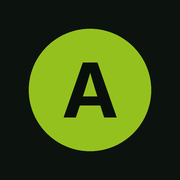
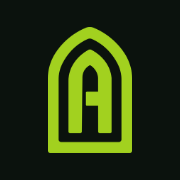
Иконка CRM — настоящий логотип Amana Finance
Логотип из репозитория калькулятора (images/logo.png) на тёмном фоне CRM:
иконка экрана «Домой» iPhone (180 px) и значок вкладки (32 px), ?v=2 — чтобы браузеры не показывали старую.

Claude-Session: https://claude.ai/code/session_018EWvf4BxyNs4iF1zWq9g5X

Changed region(s): [[0.1389, 0.1667, 0.8611, 0.8611], [0.4444, 0.1389, 0.5556, 0.1667]]

diff --git a/index.html b/index.html
@@ -6,8 +6,8 @@
 <meta name="viewport" content="width=device-width,initial-scale=1.0,viewport-fit=cover"/>
 <meta http-equiv="Cache-Control" content="no-cache, no-store, must-revalidate"/>
 <title>Amana CRM</title>
-<link rel="apple-touch-icon" href="icon-180.png"/>
-<link rel="icon" type="image/png" href="icon-32.png"/>
+<link rel="apple-touch-icon" href="icon-180.png?v=2"/>
+<link rel="icon" type="image/png" href="icon-32.png?v=2"/>
 <meta name="apple-mobile-web-app-title" content="Amana CRM"/>
 <meta name="theme-color" content="#060a07"/>
 <link href="https://fonts.googleapis.com/css2?family=Manrope:wght@400;500;600;700&family=Roboto+Condensed:wght@500;600;700&display=swap" rel="stylesheet"/>
@@ -1473,7 +1473,7 @@ function askText(t,label,val,ok){const l=document.getElementById('confirmLayer')
   document.getElementById('askOk').onclick=go;i.onkeydown=e=>{if(e.key==='Enter')go();};setTimeout(()=>{i.focus();i.select();},30);}
 function showConfirm(t,m,ok){const l=document.getElementById('confirmLayer');l.innerHTML='<div class="confirm-ov" onclick="if(event.target===this)this.remove()"><div class="confirm-box"><div class="confirm-title">'+t+'</div><div class="confirm-msg">'+m+'</div><div class="confirm-actions"><button class="btn bgh" onclick="this.closest(\'.confirm-ov\').remove()">Отмена</button><button class="btn bg" id="cfOk">Подтвердить</button></div></div></div>';document.getElementById('cfOk').onclick=()=>{l.innerHTML='';ok();};}
 
-const CRM_VERSION='05.11.2026 · 5';
+const CRM_VERSION='05.11.2026 · 6';
 // ---------- AUTH ----------
 let _inited=false;
 document.getElementById('lpass').addEventListener('keydown',e=>{if(e.key==='Enter')doLogin();});
